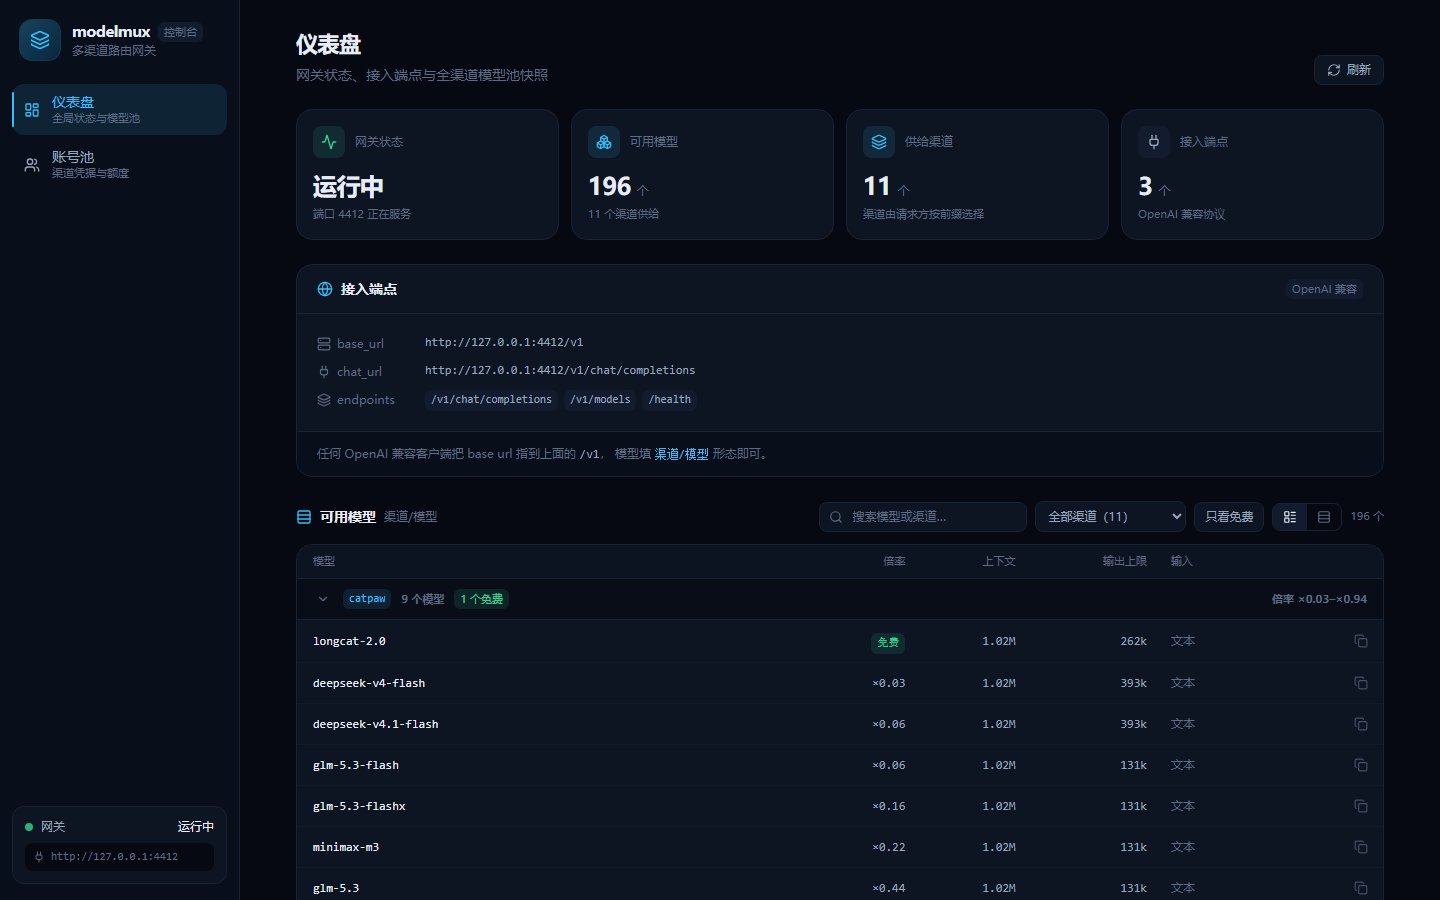
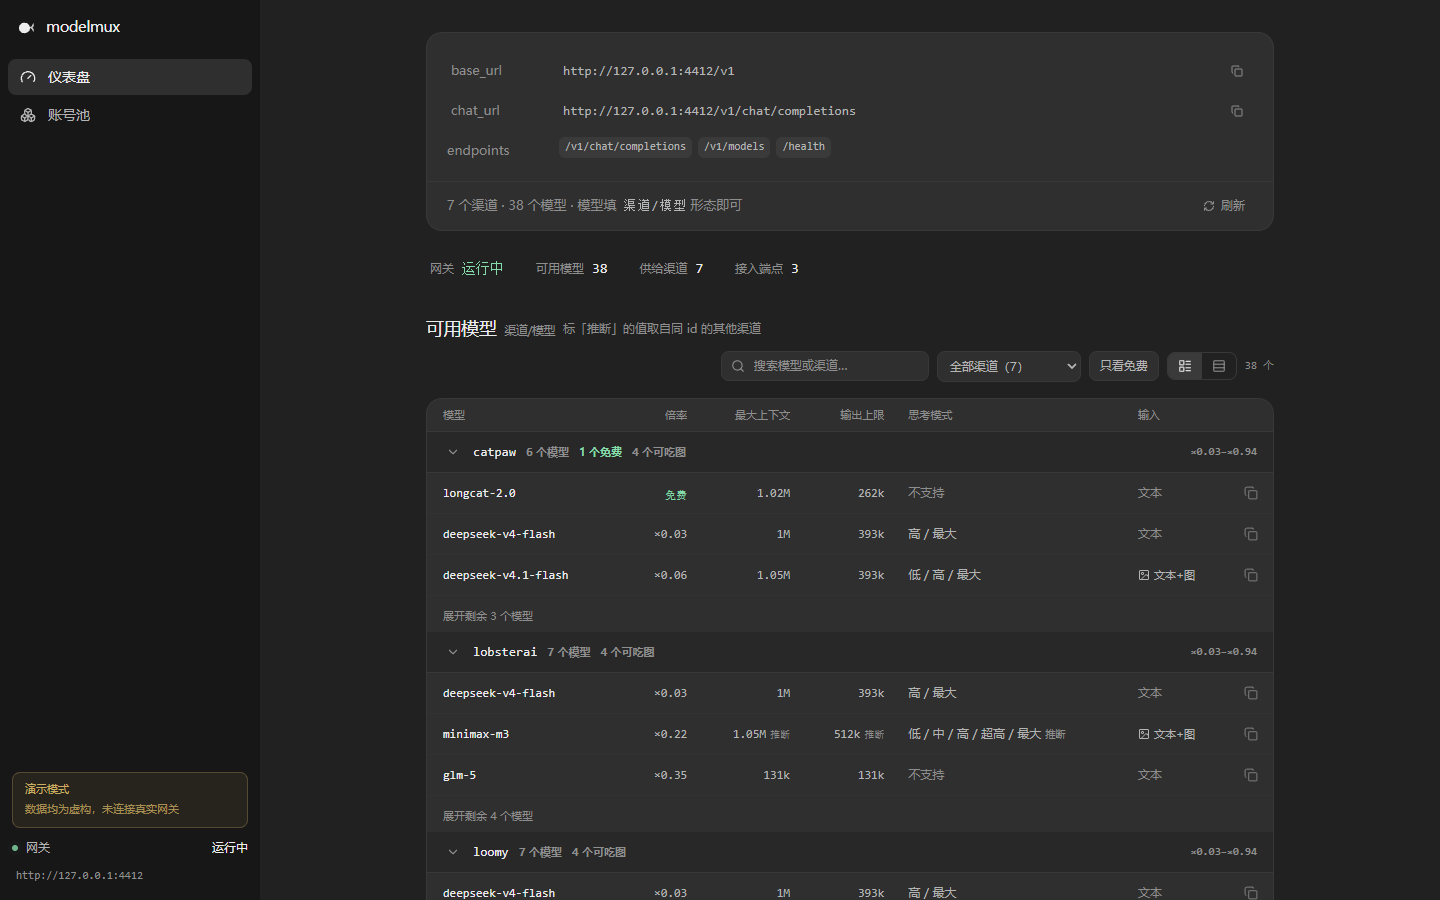
docs(readme): 控制台截图改用演示构建重拍，并清掉真实账号痕迹
README 的两张截图停在 2026-10-20 的旧界面（旧主题、没有「最大上下文 / 思考模式」列），
且**拍的是真实控制台** —— 账号页把本机真实 uid、账号 id、昵称与额度都拍进了公开仓库。
文档与注释里的脱敏示例也直接抄了真实账号片段（`131****9411` / `UID 452****126` / 昵称）。

- 两张图改用 `DEMO=1` 演示构建重拍（视口 1440×900）：数据全部虚构、侧栏常驻
  「演示模式」横幅；README 底部与 docs/WEB-CONSOLE.md 写明重拍纪律与视口。
- 脱敏示例换成明显虚构的值（`138****0001` / `UID 100****042` / `demo-user`）。
- `demo.ts` 的演示数据补齐成与新快照同形：加 `sources`（其中两个模型标 `cross`，
  截图里能看到「推断」标记）、按模型给不同的窗口 / 输出（原来一律 128k / 8k，
  两列看不出在比什么）、部分模型给思考档位、账号页补虚构额度与到期时间。
- README 的仪表盘说明补上「思考模式档位」与「推断」口径。

⚠ 旧截图仍在 git 历史里（`437bbfa` 起）：要彻底清除需改写历史后强推，属破坏性操作，
另行确认后再做。

diff --git a/packages/ui/src/lib/demo.ts b/packages/ui/src/lib/demo.ts
@@ -32,6 +32,8 @@ interface DemoAccount {
   /** 名称类字段；空串表示该渠道只有 uid（演示「无名字 → 显示脱敏 id」）。 */
   name?: string;
   health: string;
+  /** 凭据到期：相对今天的天数（负数 = 已过期）；不填 = 渠道不给到期时间。 */
+  expiresInDays?: number;
 }
 
 const DEMO_CHANNELS: DemoChannel[] = [
@@ -67,15 +69,31 @@ const DEMO_MODELS: Record<string, string[]> = {
 const DEMO_ACCOUNTS: Record<string, DemoAccount[]> = {
   catpaw: [
     // catpaw 真实只给 uid，演示「无名字 → 显示脱敏 id」
-    { key: "demo000000000000a1", uid: "demo-uid-catpaw-1", label: "demo-uid-catpaw-1", health: "ok" },
-    { key: "demo000000000000a2", uid: "demo-uid-catpaw-2", label: "demo-uid-catpaw-2", health: "ok" },
+    { key: "demo000000000000a1", uid: "demo-uid-catpaw-1", label: "demo-uid-catpaw-1", health: "ok", expiresInDays: 12 },
+    { key: "demo000000000000a2", uid: "demo-uid-catpaw-2", label: "demo-uid-catpaw-2", health: "ok", expiresInDays: 40 },
   ],
-  lobsterai: [{ key: "demo000000000000c1", uid: "demo-uid-lobster-1", label: "139****0003", name: "139****0003", health: "ok" }],
-  loomy: [{ key: "demo000000000000d1", uid: "demo-uid-loomy-1", label: "137****0004", name: "137****0004", health: "ok" }],
-  qodercn: [{ key: "demo000000000000e1", uid: "demo-uid-qodercn-1", label: "demo-qoder-user", name: "demo-qoder-user", health: "ok" }],
+  lobsterai: [{ key: "demo000000000000c1", uid: "demo-uid-lobster-1", label: "139****0003", name: "139****0003", health: "ok", expiresInDays: 25 }],
+  loomy: [{ key: "demo000000000000d1", uid: "demo-uid-loomy-1", label: "137****0004", name: "137****0004", health: "ok", expiresInDays: 8 }],
+  qodercn: [{ key: "demo000000000000e1", uid: "demo-uid-qodercn-1", label: "demo-qoder-user", name: "demo-qoder-user", health: "ok", expiresInDays: 30 }],
   raccoon: [{ key: "demo000000000000f1", uid: "demo-uid-raccoon-1", label: "demo-raccoon-user", name: "demo-raccoon-user", health: "ok" }],
-  traecn: [{ key: "demo000000000000g1", uid: "demo-uid-trae-1", label: "demo-trae-user", name: "demo-trae-user", health: "ok" }],
-  workbuddyai: [{ key: "demo000000000000h1", uid: "demo-uid-wbai-1", label: "demo-uid-wbai-1", health: "unauthorized" }],
+  traecn: [{ key: "demo000000000000g1", uid: "demo-uid-trae-1", label: "demo-trae-user", name: "demo-trae-user", health: "ok", expiresInDays: 3 }],
+  workbuddyai: [{ key: "demo000000000000h1", uid: "demo-uid-wbai-1", label: "demo-uid-wbai-1", health: "unauthorized", expiresInDays: -2 }],
+};
+
+/**
+ * 演示额度（虚构）：每个有额度概念的渠道一份「总量 / 剩余 / 单位」。
+ *
+ * 账号卡片的额度条与百分比按它渲染 —— 不补这份数据的话，演示页上每张卡都写着
+ * 「未查到」，看起来像功能坏了（订阅制渠道 `billing: false` 本就没有额度概念，不列）。
+ */
+const DEMO_QUOTA: Record<string, { size: number; remain: number; unit: string }> = {
+  catpaw: { size: 500, remain: 486, unit: "积分" },
+  lobsterai: { size: 2000, remain: 1974, unit: "credits" },
+  loomy: { size: 5000, remain: 4820, unit: "积分" },
+  qodercn: { size: 600, remain: 228, unit: "credits" },
+  raccoon: { size: 800, remain: 610, unit: "积分" },
+  traecn: { size: 2000, remain: 797, unit: "credits" },
+  workbuddyai: { size: 200, remain: 66, unit: "credits" },
 };
 
 /** 池账本（虚构用量）。`accounts` 是按生效账号拆分的请求计数。 */
@@ -165,8 +183,8 @@ export function demoSettings(state: DemoState): UiSnapshot {
  * 演示用的模型元数据（键 = 池模型 id）。
  *
  * ⚠ 字段必须与 `UiSnapshot.model_info` 的形状**逐字段对齐**（倍率 / 营销角标 /
- * 上下文窗口 / 单次输出上限 / 输入模态 / 思考档位）—— 少一个字段就是一处类型错误，
- * 而 UI 的类型检查此前不在 CI 链路里，这类缺口会长期潜伏。
+ * 上下文窗口 / 单次输出上限 / 输入模态 / 思考档位 / **取值来源**）——
+ * 少一个字段就是一处类型错误，而 UI 的类型检查此前不在 CI 链路里，这类缺口会长期潜伏。
  */
 function demoModelInfo(models: string[]): UiSnapshot["model_info"] {
   const DEMO_MULTIPLIER: Record<string, number> = {
@@ -198,24 +216,70 @@ function demoModelInfo(models: string[]): UiSnapshot["model_info"] {
   };
   // 演示思考档位（虚构）：只给一部分模型声明，其余为 null（=「不支持」）——
   // 刻意与真实数据同形，避免演示页把「没声明」显示成「支持」。
+  // `qwen3.8-flash` 故意按上游那种乱序写（xhigh/low/medium），用来演示界面会按强度重排。
   const DEMO_EFFORT: Record<string, { supportedLevels: string[]; defaultLevel: string }> = {
-    "glm-5.3-flash": { supportedLevels: ["low", "high", "max"], defaultLevel: "high" },
+    "deepseek-v4-flash": { supportedLevels: ["high", "max"], defaultLevel: "high" },
+    "deepseek-v4.1-flash": { supportedLevels: ["low", "high", "max"], defaultLevel: "high" },
     "deepseek-v4-pro": { supportedLevels: ["high", "max"], defaultLevel: "high" },
+    "glm-5.3": { supportedLevels: ["low", "high", "max"], defaultLevel: "high" },
+    "glm-5.3-flash": { supportedLevels: ["low", "high", "max"], defaultLevel: "high" },
     "kimi-k3": { supportedLevels: ["none", "low", "medium", "high"], defaultLevel: "high" },
+    "minimax-m3": { supportedLevels: ["low", "medium", "high", "xhigh", "max"], defaultLevel: "low" },
+    "qwen3.8-flash": { supportedLevels: ["xhigh", "low", "medium"], defaultLevel: "medium" },
   };
+  /**
+   * 演示窗口 / 输出上限（虚构，只取常见量级）。
+   *
+   * 给每个模型一组不同数值是**刻意的**：全填 128k / 8k 时「最大上下文」「输出上限」
+   * 两列看不出在比什么，多模态那列也永远只有「文本」。
+   */
+  const DEMO_SIZE: Record<string, { contextWindow: number; maxOutputTokens: number; vision?: boolean }> = {
+    "auto": { contextWindow: 1_000_000, maxOutputTokens: 131_072, vision: true },
+    "deepseek-v4-flash": { contextWindow: 1_000_000, maxOutputTokens: 393_216 },
+    "deepseek-v4.1-flash": { contextWindow: 1_048_576, maxOutputTokens: 393_216, vision: true },
+    "deepseek-v4-pro": { contextWindow: 1_048_576, maxOutputTokens: 393_216, vision: true },
+    "deepseek-flash": { contextWindow: 1_000_000, maxOutputTokens: 393_216, vision: true },
+    "glm-5": { contextWindow: 131_072, maxOutputTokens: 131_072 },
+    "glm-5.3": { contextWindow: 1_000_000, maxOutputTokens: 131_072, vision: true },
+    "glm-5.3-flash": { contextWindow: 1_048_576, maxOutputTokens: 131_072, vision: true },
+    "glm-5.3-flashx": { contextWindow: 1_024_000, maxOutputTokens: 131_072 },
+    "kimi-k2.6": { contextWindow: 262_144, maxOutputTokens: 65_536, vision: true },
+    "kimi-k3": { contextWindow: 1_048_576, maxOutputTokens: 1_048_576, vision: true },
+    "longcat-2.0": { contextWindow: 1_024_000, maxOutputTokens: 262_144 },
+    "mimo-v2.5": { contextWindow: 262_144, maxOutputTokens: 65_536 },
+    "minimax-m3": { contextWindow: 1_048_576, maxOutputTokens: 512_000, vision: true },
+    "qwen3.8-flash": { contextWindow: 1_000_000, maxOutputTokens: 131_072, vision: true },
+    "qwen3.8-max": { contextWindow: 1_000_000, maxOutputTokens: 131_072, vision: true },
+    "sensenova-6.8-flash": { contextWindow: 256_000, maxOutputTokens: 63_999 },
+    "spark-x": { contextWindow: 1_048_576, maxOutputTokens: 65_536 },
+  };
+  /**
+   * 演示「跨渠道推断」的模型（真实口径见 POOL-ARCHITECTURE §2.7）：
+   * 本渠道拿不到窗口 / 输出 / 档位时取自同 id 的兄弟渠道，界面在该值后标「推断」。
+   * 不给一两个例子的话，README 截图里看不到这个标记。
+   */
+  const DEMO_CROSS = new Set(["minimax-m3", "sensenova-6.8-flash"]);
   return Object.fromEntries(
     models.map((model) => {
       const name = model.slice(model.indexOf("/") + 1);
+      const size = DEMO_SIZE[name];
+      const cross = DEMO_CROSS.has(name);
+      const effort = DEMO_EFFORT[name] ?? null;
       return [
         model,
         {
           multiplier: DEMO_MULTIPLIER[name] ?? null,
           marketing: DEMO_MARKETING[name] ?? "",
-          // 演示值（虚构）：窗口与输出上限取常见量级，模态一律文本
-          contextWindow: 128000,
-          maxOutputTokens: 8192,
-          inputModalities: ["text"],
-          effort: DEMO_EFFORT[name] ?? null,
+          // 演示值（虚构）：量级取自常见的窗口 / 输出档位
+          contextWindow: size?.contextWindow ?? 128_000,
+          maxOutputTokens: size?.maxOutputTokens ?? 8192,
+          inputModalities: size?.vision ? ["text", "image"] : ["text"],
+          effort,
+          sources: {
+            contextWindow: size ? (cross ? "cross" : "upstream") : "default",
+            maxOutputTokens: size ? (cross ? "cross" : "upstream") : "default",
+            effort: effort ? (cross ? "cross" : "upstream") : "default",
+          },
         },
       ];
     }),
@@ -297,9 +361,12 @@ export function demoAccountPools(state: DemoState): { channels: unknown[] } {
           uid: a.uid,
           domain: "demo.local",
           label: a.label,
+          name: a.name,
           added_at: "2026-10-01T00:00:00.000Z",
           last_used_at: "2026-10-18T00:00:00.000Z",
-          expires_at: null,
+          // 相对今天算，避免演示数据越放越像「全过期」
+          expires_at:
+            a.expiresInDays === undefined ? null : Date.now() + a.expiresInDays * 86_400_000,
           health: a.health,
           health_at: "2026-10-18T00:00:00.000Z",
         })),
@@ -321,6 +388,12 @@ export function demoBilling(state: DemoState): { rows: unknown[]; models: string
     // 把渠道级 ok/fail 按账号**均分到底**（末位吃掉余数），
     // 保证「按账号拆分」各项之和恒等于渠道合计 —— 否则演示数据自相矛盾。
     const list = state.accounts[cid] ?? [];
+    // 额度（虚构）：有额度概念的渠道按 DEMO_QUOTA 给「总量 / 剩余」，
+    // 账号卡片据此画额度条与百分比；没数据的渠道如实给 null（卡片显示「未查到」）。
+    const quota = DEMO_QUOTA[cid];
+    // 账单时刻取「刚刚」：写死日期会让卡片上的新鲜度显示成「更新于 7 天前」，
+    // 看起来像演示数据放坏了
+    const billingAt = quota ? new Date(Date.now() - 90_000).toISOString() : null;
     const accounts = list.map((a, i) => {
       const n = list.length;
       const base = Math.floor(totalOk / n);
@@ -331,6 +404,21 @@ export function demoBilling(state: DemoState): { rows: unknown[]; models: string
         key: a.key,
         ok: base + (i < extra ? 1 : 0),
         fail: fbase + (i < fextra ? 1 : 0),
+        credits: quota
+          ? {
+              remain: quota.remain,
+              size: quota.size,
+              used: quota.size - quota.remain,
+              unit: quota.unit,
+              remain_percent: Math.round((quota.remain / quota.size) * 100),
+            }
+          : null,
+        // 额度基线 = 当前窗口第一次账单的剩余量（百分比的分母，见 POOL-ARCHITECTURE §2.3）
+        baseline: quota
+          ? { window: "24h", date: "2026-10-18", remain: quota.size, at: "2026-10-18T00:00:00.000Z" }
+          : null,
+        billing_at: billingAt,
+        billing_ok: quota !== undefined,
       };
     });
     return {

diff --git a/packages/ui/src/components/AccountCard.tsx b/packages/ui/src/components/AccountCard.tsx
@@ -168,7 +168,7 @@ function maskMiddle(raw: string): string {
  * 才能区分同渠道的多个账号；`label` 可能退化成 uid / key，那种泛化值按标识脱敏
  * （手机号 / 纯数字 UID / 邮箱 / key）。
  *
- * 输出形态：`bluechonk`（名称）、`131****9411`（手机号）、`UID 452****126`（纯数字）、
+ * 输出形态：`demo-user`（名称）、`138****0001`（手机号）、`UID 100****042`（纯数字）、
  * `账号 acc****1234`（key 兜底）。
  */
 function displayName(account: PoolAccount): string {

diff --git a/docs/WEB-CONSOLE.md b/docs/WEB-CONSOLE.md
@@ -140,10 +140,10 @@ UI 的配色、层级与圆角**只在 `index.css` 的 `@theme` 里定义一次*
 
 - 渠道头**只显示小写 cid**（如 `catpaw`），不显示展示名与 `ok` 文字；状态只用小圆点。
 - 账号主标识**有名称就显示名称**（`name`：渠道给的 nickname / 用户名 / 邮箱 / 手机号），
-  没有名称才退回脱敏 id：手机号 `131****9411`、纯数字 `UID 452****126`、
+  没有名称才退回脱敏 id：手机号 `138****0001`、纯数字 `UID 100****042`、
   邮箱只脱敏 `@` 前的本地部分、key 哈希兜底。
-  **名称是给人看的可读标识，直接展示**（`bluechonk`）；**id 一律脱敏**，
-  页面上不出现完整 uid / key 哈希。有名称时，id 以小号副文本（`UID 452****126`）
+  **名称是给人看的可读标识，直接展示**（`demo-user`）；**id 一律脱敏**，
+  页面上不出现完整 uid / key 哈希。有名称时，id 以小号副文本（`UID 100****042`）
   附在名称后，保证同渠道多个账号仍可区分。
 - 额度**按账号**查询：后端用每个账号自己的凭证调用
   `billing.fetchCredits({ credential, refreshOn401: false })`，结果写进账本
@@ -260,6 +260,11 @@ UI 的配色、层级与圆角**只在 `index.css` 的 `@theme` 里定义一次*
 （`demo000000000000a1`、`138****0001`、`example.com`），
 **不读取也不复制 `~/.modelmux/` 下的任何真实数据** ✓。
 侧栏常驻「演示模式：数据均为虚构，未连接任何真实网关」提示 ✓。
+
+⚠ **README 的两张控制台截图必须用演示构建重拍**（`docs/images/web-*.png`）——
+真实控制台的账号页会显示本机账号的 uid / 昵称 / 额度，拍进仓库就是泄漏
+（旧截图曾把真实 UID 与账号 id 拍进去过）。重拍命令见本节「本地预览」，
+浏览器视口用 **1440×900**。
 
 ### 本地预览
 

diff --git a/README.md b/README.md
@@ -75,9 +75,13 @@ mx model list
 ![账号池：各渠道的凭据、账号与额度](docs/images/web-accounts.png)
 
 - **仪表盘**：网关状态 / 可用模型 / 供给渠道 / 接入端点四块统计 + 接入端点面板 +
-  模型区（按渠道分组的表，列出每个模型的**倍率、上下文窗口、输出上限与输入模态**，
+  模型区（按渠道分组的表，列出每个模型的**倍率、最大上下文、输出上限、思考模式档位与输入模态**，
   可按渠道筛选、只看免费、切「分组 / 扁平」两种视图）。
+  某渠道取不到窗口 / 输出 / 档位时，值取自**同 id 的其他渠道**并在其后标「推断」——
+  上游真说的与推断的分得开。
 - **账号池**：每个渠道的登录状态、账号列表、剩余额度与到期时间、切换 / 删除 / 新增。
+
+> 上面的两张图取自控制台的**演示构建**（`DEMO=1`，数据全部虚构，不读本机任何真实账号）。
 
 页面结构、数据通道与设计令牌见 [docs/WEB-CONSOLE.md](docs/WEB-CONSOLE.md)。
 
